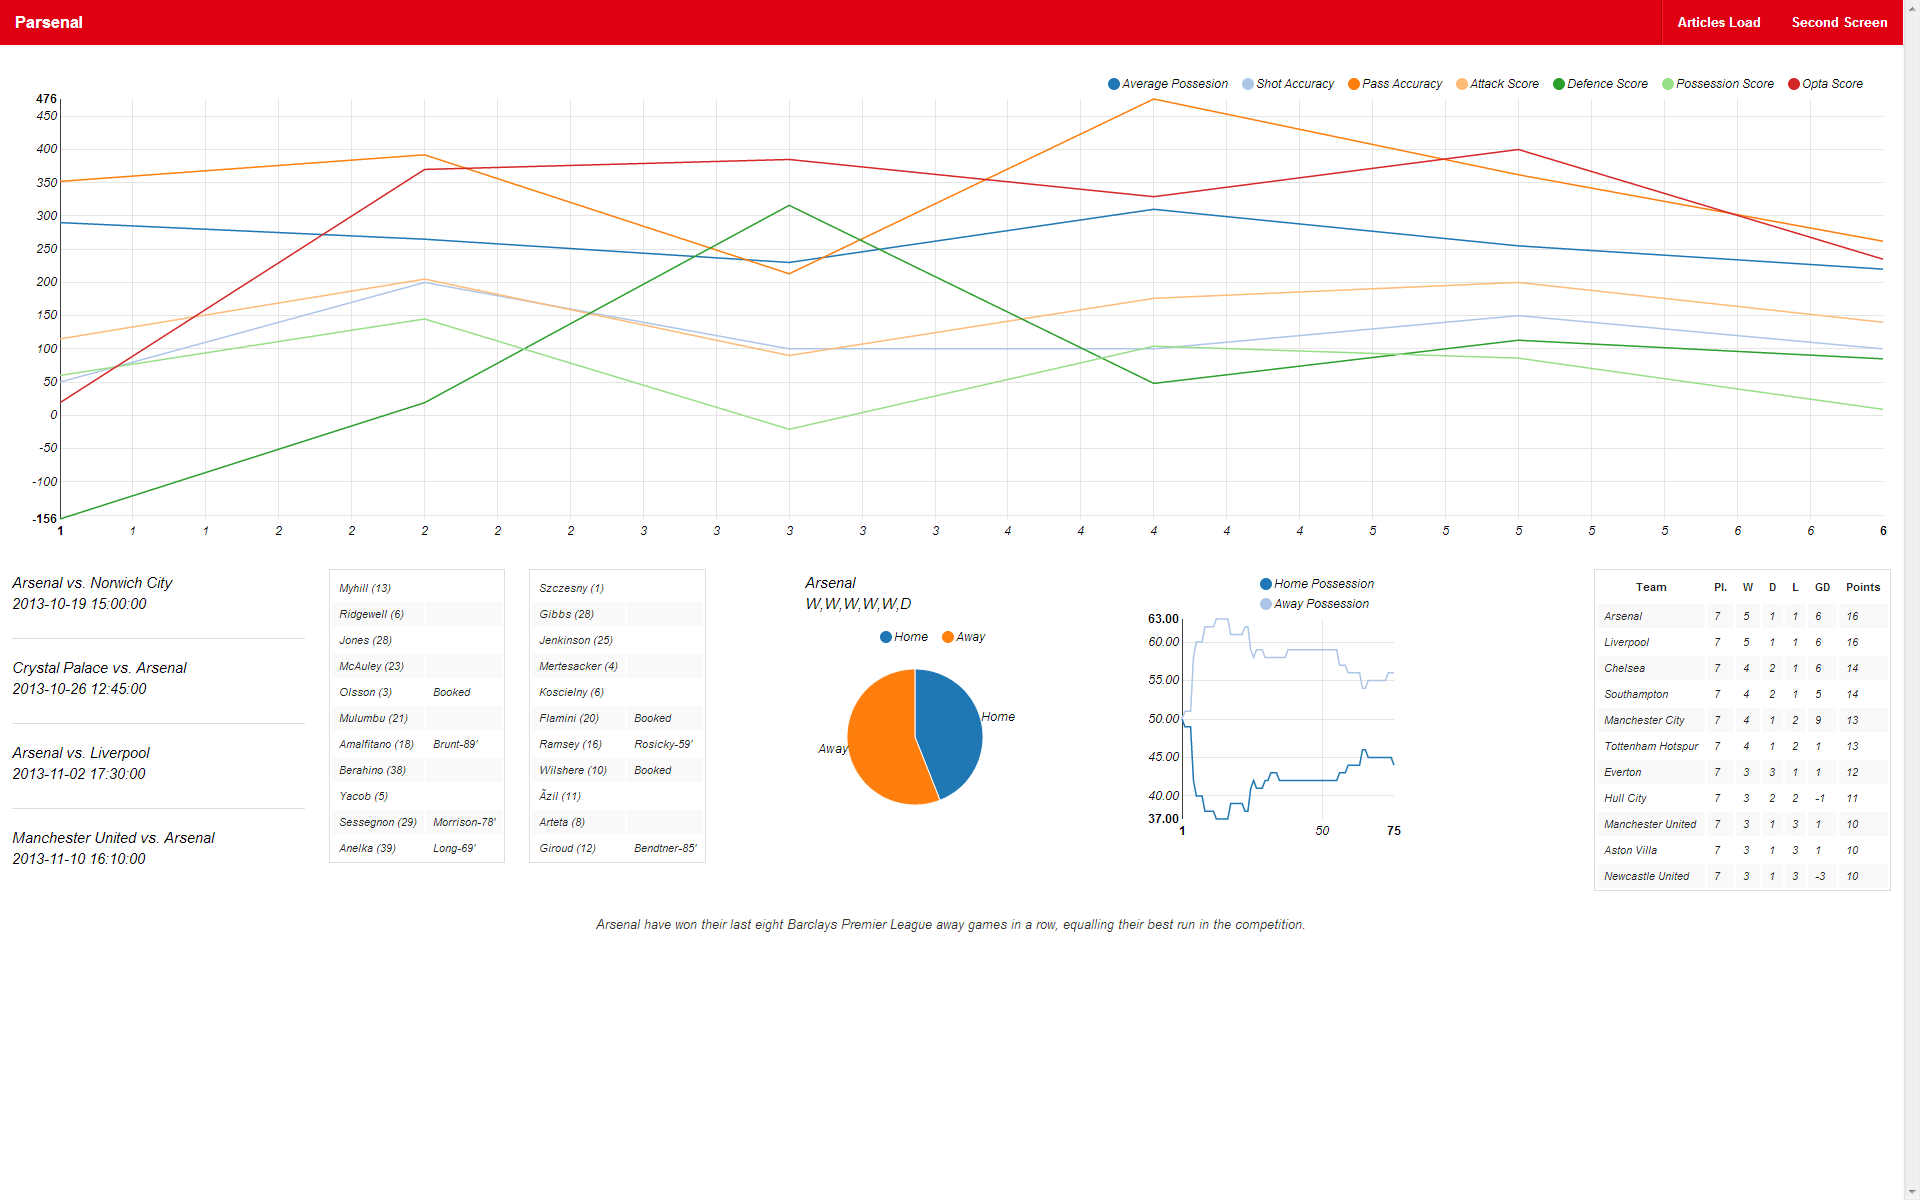
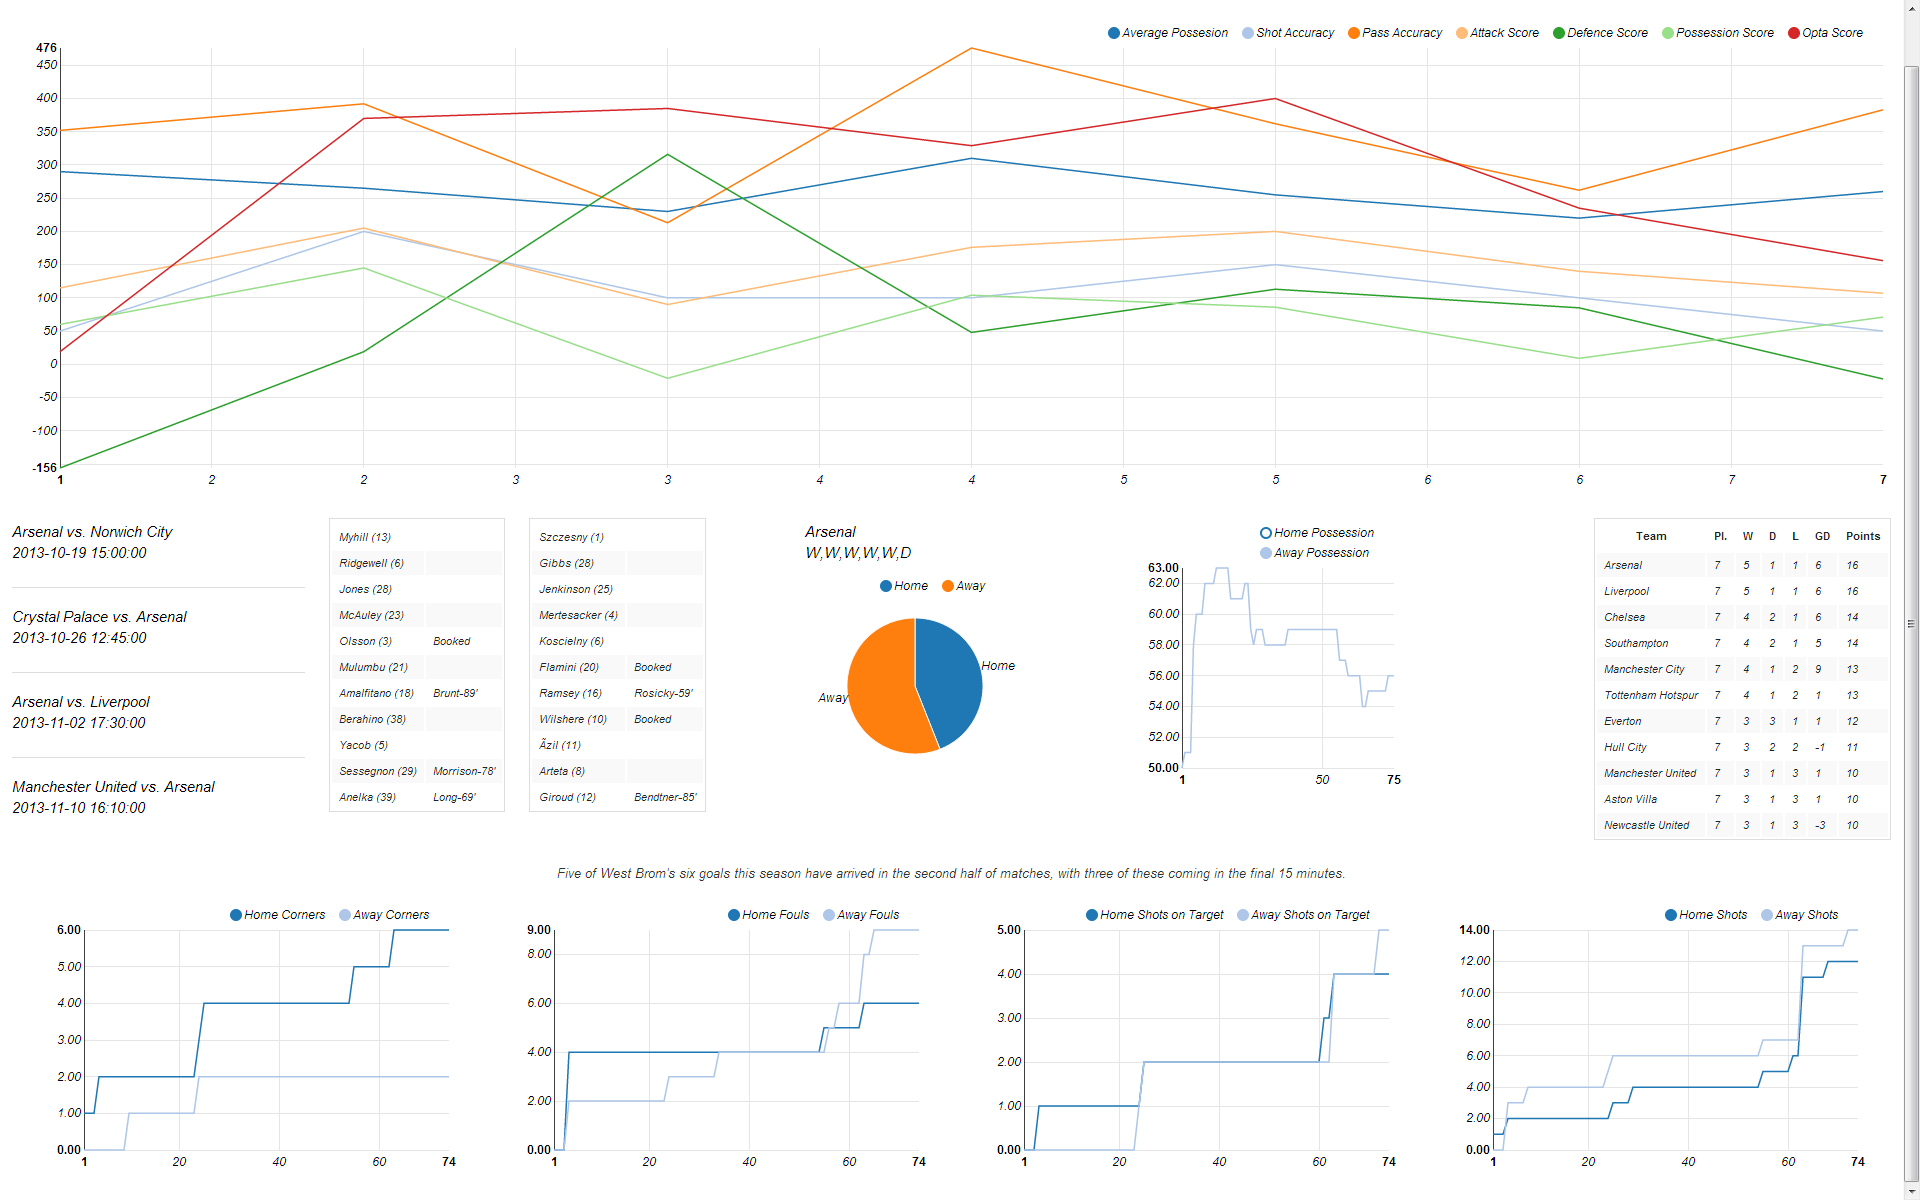
looks pretty peng

diff --git a/app/assets/javascripts/secondscreen.js b/app/assets/javascripts/secondscreen.js
@@ -1,0 +1,250 @@
+// PIE CHART
+
+$(document).ready(function () {
+
+    var bbcj = $.getJSON("/bbcjson", function(pypy){
+                    
+    nv.addGraph(function() {
+        var width = 220,
+            height = 220;
+
+    var chart = nv.models.pieChart()
+        .x(function(d) { return d.key })
+        .y(function(d) { return d.y })
+        .color(d3.scale.category10().range())
+        .width(width)
+        .height(height);
+
+      d3.select("#pypy1")
+          .datum(pypy)
+        .transition().duration(1200)
+          .attr('width', width)
+          .attr('height', height)
+          .call(chart);
+
+    chart.dispatch.on('stateChange', function(e) { nv.log('New State:', JSON.stringify(e)); });
+
+    nv.utils.windowResize(chart.update);
+
+    return chart;
+    })
+    });
+});
+
+// BIG CHART AT TOP
+
+$(document).ready(function () {
+  nv.addGraph(function() {
+            var chart = nv.models.lineChart();
+
+           chart.transitionDuration(500);
+            chart.xAxis
+                .tickFormat(d3.format(',f'));
+           
+            chart.yAxis
+                .tickFormat(d3.format(',f'));
+           
+            d3.select('#chart svg')
+                .datum(gon.d3)
+                .call(chart);
+
+            nv.utils.windowResize(chart.update);
+
+            return chart;
+          });
+});
+
+// LIVE POSSESSION
+
+$(document).ready(function () {
+      
+    $.getJSON("/livepossjson", function(liveposs){
+
+     nv.addGraph(function() {
+            var chart = nv.models.lineChart();
+
+           chart.transitionDuration(500);
+            chart.xAxis
+                .tickFormat(d3.format(',f'));
+           
+            chart.yAxis
+                .tickFormat(d3.format(',.2f'));
+           
+            d3.select('#liveposschart svg')
+                .datum(liveposs)
+                .call(chart);
+
+            nv.utils.windowResize(chart.update);
+
+            return chart;
+             })
+          });
+});
+
+// LIVE SHOTS
+
+$(document).ready(function () {
+      
+    $.getJSON("/liveshotjson", function(liveshot){
+
+     nv.addGraph(function() {
+            var chart = nv.models.lineChart();
+
+           chart.transitionDuration(500);
+            chart.xAxis
+                .tickFormat(d3.format(',f'));
+           
+            chart.yAxis
+                .tickFormat(d3.format(',.2f'));
+           
+            d3.select('#liveshotschart svg')
+                .datum(liveshot)
+                .call(chart);
+
+            nv.utils.windowResize(chart.update);
+
+            return chart;
+             })
+          });
+});
+
+// LIVE FOULS
+
+$(document).ready(function () {
+      
+    $.getJSON("/livefouljson", function(livefoul){
+
+     nv.addGraph(function() {
+            var chart = nv.models.lineChart();
+
+           chart.transitionDuration(500);
+            chart.xAxis
+                .tickFormat(d3.format(',f'));
+           
+            chart.yAxis
+                .tickFormat(d3.format(',.2f'));
+           
+            d3.select('#livefoulschart svg')
+                .datum(livefoul)
+                .call(chart);
+
+            nv.utils.windowResize(chart.update);
+
+            return chart;
+             })
+          });
+});
+// LIVE CORNERS
+
+$(document).ready(function () {
+      
+    $.getJSON("/livecornerjson", function(livecorner){
+
+     nv.addGraph(function() {
+            var chart = nv.models.lineChart();
+
+           chart.transitionDuration(500);
+            chart.xAxis
+                .tickFormat(d3.format(',f'));
+           
+            chart.yAxis
+                .tickFormat(d3.format(',.2f'));
+           
+            d3.select('#livecornerschart svg')
+                .datum(livecorner)
+                .call(chart);
+
+            nv.utils.windowResize(chart.update);
+
+            return chart;
+             })
+          });
+});
+// LIVE TARGETS
+
+$(document).ready(function () {
+      
+    $.getJSON("/livetargetjson", function(livetarget){
+
+     nv.addGraph(function() {
+            var chart = nv.models.lineChart();
+
+           chart.transitionDuration(500);
+            chart.xAxis
+                .tickFormat(d3.format(',f'));
+           
+            chart.yAxis
+                .tickFormat(d3.format(',.2f'));
+           
+            d3.select('#livetargetschart svg')
+                .datum(livetarget)
+                .call(chart);
+                
+            nv.utils.windowResize(chart.update);
+
+            return chart;
+             })
+          });
+});
+
+// API STUFF
+
+$(document).ready(function () {
+    var table = gon.table;
+    var fixtures = gon.fixtures;
+    var form = gon.form;
+    var tr;
+    for (var i = 0; i < 11; i++) {
+        tr = $('<tr/>');
+        tr.append("<td>" + table[i].team + "</td>");
+        tr.append("<td>" + table[i].played + "</td>");
+        tr.append("<td>" + table[i].won + "</td>");
+        tr.append("<td>" + table[i].drawn + "</td>");
+        tr.append("<td>" + table[i].lost + "</td>");
+        tr.append("<td>" + table[i].difference + "</td>");
+        tr.append("<td>" + table[i].points + "</td>");
+        $('#pltable').append(tr); 
+    }
+    $("#venue1").append("<a>" + fixtures[0].home + " vs. " + fixtures[0].away + "<br>" + fixtures[0].date + "</a>");
+    $("#venue2").append("<a>" + fixtures[1].home + " vs. " + fixtures[1].away + "<br>" + fixtures[1].date + "</a>");
+    $("#venue3").append("<a>" + fixtures[2].home + " vs. " + fixtures[2].away + "<br>" + fixtures[2].date + "</a>");
+    $("#venue4").append("<a>" + fixtures[3].home + " vs. " + fixtures[3].away + "<br>" + fixtures[3].date + "</a>");
+
+    $("#hometeamform").append("<a>" + form[0].team + "<br>" + form[0].form + "</a>");
+    // $("#awayteamform").append("<a>" + form[1].team + "<br>" + form[1].form + "</a>");
+});
+
+// PREMATCH QUOTES
+
+$(document).ready(function () {
+    var prematch = gon.prematch
+    var list = [];
+
+  $(prematch).each(function(i, obj) {
+     list.push(obj.text);
+    });
+
+  var final_list =  _.reject(list, function(num){ return num.length  == 1; });
+
+
+    var $target;
+    var loadContentIndex = 0;
+
+    $(function() {
+        $target = $('#update');
+        loadContent(); 
+        window.setInterval(loadContent, 8000); 
+    });
+
+    function loadContent() {
+        $target.fadeOut(function() { 
+            $target.text(final_list[loadContentIndex]); 
+            $target.fadeIn(); 
+        });
+
+        loadContentIndex++; 
+        if (final_list.length == loadContentIndex) { 
+            loadContentIndex = 0;
+        };
+    };
+});

diff --git a/app/assets/stylesheets/fixtures.css.scss b/app/assets/stylesheets/fixtures.css.scss
@@ -29,34 +29,34 @@
 }
 
 
-          body {
-            overflow-y:scroll;
-          }
+  body {
+    overflow-y:scroll;
+  }
 
-          text {
-            font: 12px sans-serif;
-          }
+  text {
+    font: 12px sans-serif;
+  }
 
-          svg {
-            display: block;
-          }
+  svg {
+    display: block;
+  }
 
-          #chart svg {
-            height: 400px;
-          }
+  #chart svg {
+    height: 400px;
+  }
 
-          .teams {
-            display: inline-block;
-            margin-right: 20px;
-          }
-          .teams:last-child {
-            margin-right: 0px;
-          }
+  .teams {
+    display: inline-block;
+    margin-right: 20px;
+  }
+  .teams:last-child {
+    margin-right: 0px;
+  }
 
-          #pltable {
-            float:right;
-          }
+  #pltable {
+    float: right;
+  }
 
-          #bars {
-            float: left;
-          }
+  #bars {
+    float: left;
+  }

diff --git a/lib/prod/BBC.rb b/lib/prod/BBC.rb
@@ -1,12 +1,8 @@
-require "json"
-require "HTTParty"
-require "open-uri"
-
 class BBC
 
 	def initialize
 		@statsjson = get_json
-		@rawlink = get_bbc
+		# @rawlink = get_bbc
 	end
 
 	def get_bbc
@@ -19,6 +15,8 @@ class BBC
 		return arsenalmatch.css('a').last['href']
 		
 	end
+
+	# Join these two things up. PhantomJS?
 
 	def get_json
 		bbcst= "http://polling.bbc.co.uk/sport/shared/football/oppm/json/EFBO694970"

diff --git a/README.md b/README.md
@@ -74,7 +74,6 @@ Maybe I'm missing something but it seems pretty much like an open API.
 ![Most of the work](/ss/2.png "Second Screen bit")
 
 > My windows chrome has been in italics for so long now I've lost all hope of tracking down why.
-> But you can see the whitespace I have yet to fill which leads me on to.......
 
 ## Work in Progress
 
